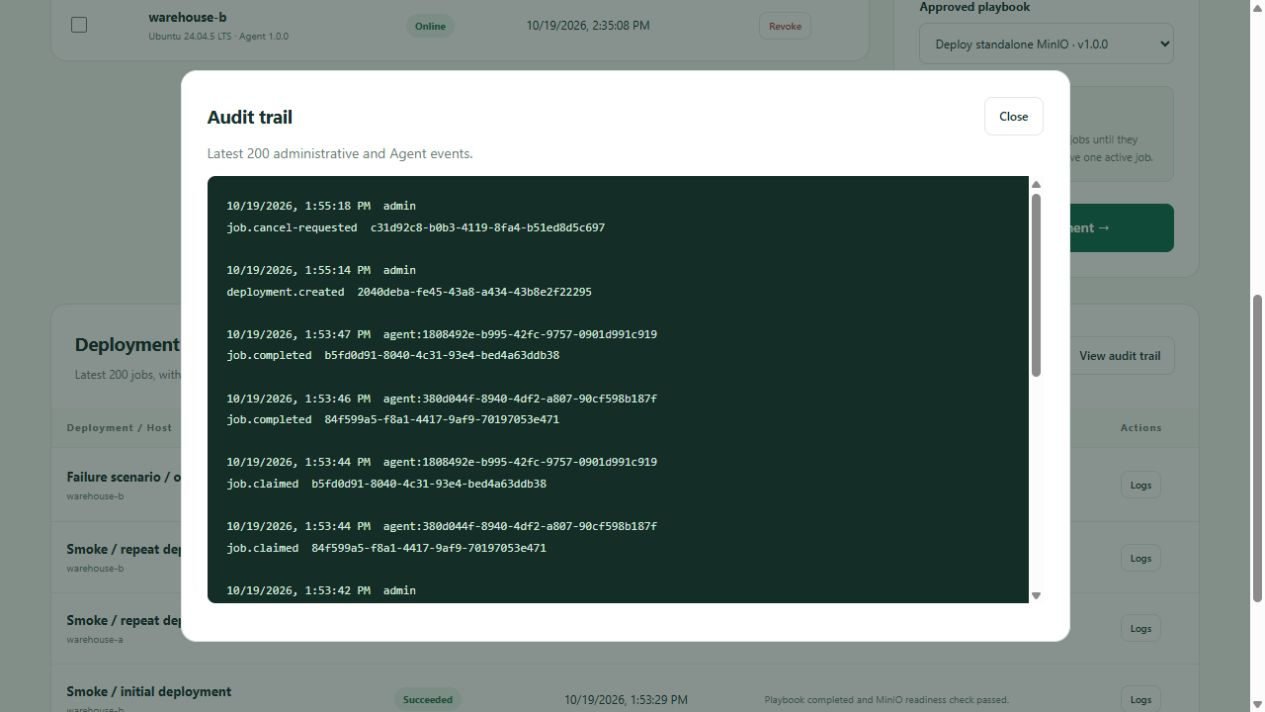
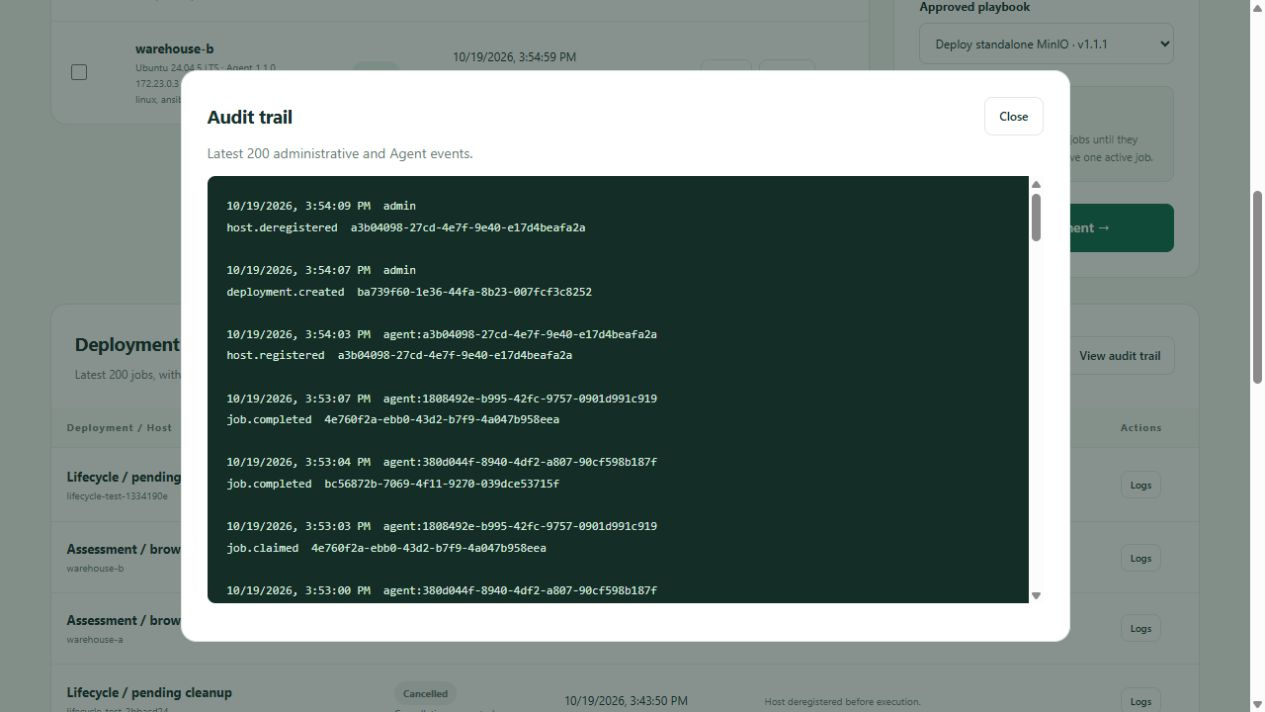
docs: refresh viewer guides and screenshots
Update concise setup guides, validation results, and interface previews.

diff --git a/README.md b/README.md
@@ -1,18 +1,18 @@
 # Dep Pilot
 
-A .NET deployment system that manages hosts and deploys standalone MinIO instances through Ansible. View host status, deployment results, logs, and audit history from one dashboard.
+A .NET deployment system that manages hosts and deploys standalone MinIO instances through Ansible. View host resources, deployment results, logs, and audit history from one dashboard.
 
 ## How it works
 
-1. Agents register with the Master and send heartbeats.
+1. Agents register with IP/capabilities and send heartbeats with CPU, memory, and disk usage.
 2. An administrator selects hosts and starts a deployment.
-3. Each Agent runs the approved playbook locally and reports its result.
+3. Each Agent runs the approved playbook locally, reports its result, and restores the previous MinIO configuration if installation fails.
 
-**Stack:** ASP.NET Core 10, .NET Worker Service, Razor Pages, SQLite, Ansible, and Docker Compose. ASP.NET Core 10 satisfies the assessment's 8+ requirement.
+**Stack:** ASP.NET Core 10, .NET Worker Service, Razor Pages, SQLite, Ansible, and Docker Compose.
 
 ## Preview
 
-![Dep Pilot dashboard](docs/screenshots/dashboard.jpg)
+![Dep Pilot host resources and deployment controls](docs/screenshots/host-resources.jpg)
 
 [View deployment logs and audit screenshots](docs/SCREENSHOTS.md).
 
@@ -26,9 +26,9 @@ From the project folder:
 python scripts/start_demo.py
 ```
 
-The first build can take several minutes. It creates local credentials and starts a Master with two simulated Linux hosts.
+The first build can take several minutes. It creates local credentials, an HTTPS certificate, and two simulated Linux hosts. For browser access, trust your generated `secrets/master.crt` in your local user certificate store; Agents and test scripts already trust this certificate. Never share its private key.
 
-1. Open **http://localhost:8080**.
+1. Open **https://localhost:8080**.
 2. Sign in as **admin** using `secrets/admin-password.txt`.
 3. Wait for both hosts to appear online.
 4. Select the hosts, name the deployment, and run the MinIO playbook.
@@ -61,12 +61,12 @@ See [validation](docs/VALIDATION.md) for Docker tests and full demo checks.
 |---|---|
 | [Architecture](docs/ARCHITECTURE.md) | Components and system flow |
 | [API](docs/API.md) | Endpoints and authentication |
+| [Agent installation](docs/INSTALLATION.md) | Self-contained Linux/Windows service setup |
+| [Deployment packages](docs/PACKAGES.md) | Approved playbooks and application templates |
 | [Configuration](docs/CONFIGURATION.md) | Ports, credentials, and settings |
 | [Operations](docs/OPERATIONS.md) | Commands and troubleshooting |
 | [Security](docs/SECURITY.md) | Controls and limitations |
 | [Validation](docs/VALIDATION.md) | Test results and commands |
 | [TODO](docs/TODO.md) | Ideas for industrial use |
-
-This is a local reference demo with one Master and an approved MinIO playbook. Production improvements are listed in TODO. The Docker mock uses privileged engine sidecars; review the security notes before changing network exposure.
 
 Original code is rights reserved; see [LICENSE-NOTICE.md](LICENSE-NOTICE.md). Third-party licenses are listed in [THIRD_PARTY_NOTICES.md](THIRD_PARTY_NOTICES.md).

diff --git a/docs/INSTALLATION.md b/docs/INSTALLATION.md
@@ -1,0 +1,51 @@
+# Agent service installation
+
+The Docker demo is the quickest evaluation path. Native Agents use the same APIs and credentials.
+
+## Publish self-contained binaries
+
+With the .NET 10 SDK on the build machine:
+
+```sh
+python scripts/publish_agents.py
+```
+
+Output: `artifacts/linux-x64/` and `artifacts/win-x64/`. Targets need the OS native libraries and execution tools, but no installed .NET runtime.
+
+## Linux service
+
+1. Install Docker, Python, and a Python venv at `/opt/dep-pilot/ansible`. Install `ansible-core==2.19.3` and `requests==2.32.5` in that venv.
+2. Install `playbooks/requirements.yml` with `ansible-galaxy collection install -r playbooks/requirements.yml -p /opt/dep-pilot/collections` using the venv's executable.
+3. Copy the Linux publish output to `/opt/dep-pilot`. Create a dedicated `dep-pilot` service account and `/var/lib/dep-pilot` owned by that account, mode `0700`.
+4. Copy `deploy/agent.env.example` to `/etc/dep-pilot/agent.env`; set the Master URL and protected secret/certificate paths. Grant the service account read access to those files and authorized access to Docker.
+5. Build/load `dep-pilot/minio:2025-10-15` on the target engine. See `docker/Minio.Dockerfile`.
+6. Copy `deploy/dep-pilot-agent.service` to `/etc/systemd/system/`, then run:
+
+```sh
+sudo systemctl daemon-reload
+sudo systemctl enable --now dep-pilot-agent
+sudo systemctl status dep-pilot-agent
+```
+
+## Windows service
+
+1. Prepare an account with a WSL Ubuntu distro, Docker access, and Ansible/Requests/the Docker collection installed inside that distro. Ansible runs locally through WSL.
+2. Copy the Windows publish output to a permanent install directory. Copy `deploy/windows-appsettings.json.example` there as `appsettings.json` and edit its paths and Master URL.
+3. Give that account access to the state directory, secret files, certificate, and its WSL distro. Restrict state and secret-file ACLs to the service account and trusted administrators.
+4. Preload the MinIO image in the Docker engine reachable from WSL. In elevated PowerShell:
+
+```powershell
+$account = Get-Credential
+.\deploy\install-windows-service.ps1 -InstallDirectory 'C:\DepPilot\Agent' -ServiceCredential $account
+Start-Service DepPilotAgent
+```
+
+Use the account that owns the configured WSL distro. The supplied service template does not install a distro or configure service logon rights automatically.
+
+## Logs and retirement
+
+Agent operational logs are stored as `agent.log` in its state directory, with one rotated file. Deployment output is available in the dashboard.
+
+Stop a native service before using the [retirement helper](OPERATIONS.md#deregister-a-host). Application data and deployment history are preserved.
+
+See [validation](VALIDATION.md) for what has been tested; binary smoke tests do not replace installation testing under systemd or Windows Service Control Manager.

diff --git a/docs/API.md b/docs/API.md
@@ -1,6 +1,6 @@
 # HTTP API reference
 
-Base URLs: `http://localhost:8080` for the local demo; an HTTPS origin for a real deployment. JSON properties use camelCase; job statuses are strings. Timestamps are UTC Unix milliseconds. API errors use HTTP status codes and, for domain validation, Problem Details with a `detail` field.
+Base URLs: `https://localhost:8080` for the local demo; an HTTPS origin for a real deployment. JSON properties use camelCase; job statuses are strings. Timestamps are UTC Unix milliseconds. API errors use HTTP status codes and, for domain validation, Problem Details with a `detail` field.
 
 ## Authentication
 
@@ -21,7 +21,9 @@ Base URLs: `http://localhost:8080` for the local demo; an HTTPS origin for a rea
   "installationId": "b9aeb700-f4ca-463f-8f65-ec970322df67",
   "hostname": "warehouse-a",
   "operatingSystem": "Linux",
-  "agentVersion": "1.0.0",
+  "agentVersion": "1.1.0",
+  "ipAddress": "10.0.0.10",
+  "capabilities": ["linux", "ansible", "docker"],
   "token": "<64 hexadecimal characters generated and stored by the Agent>"
 }
 ```
@@ -30,7 +32,8 @@ Base URLs: `http://localhost:8080` for the local demo; an HTTPS origin for a rea
 
 | Method | Path | Request / response |
 |---|---|---|
-| POST | `/api/agent/heartbeat` | `{ "agentVersion": "1.0.0" }`; 204 |
+| POST | `/api/agent/heartbeat` | `agentVersion`, optional `metrics`, `ipAddress`, `capabilities`; 204 |
+| POST | `/api/agent/deregister` | Retire this Agent; 204, safe to retry |
 | POST | `/api/agent/jobs/claim` | `{}`; 204 if no work, otherwise assignment JSON |
 | GET | `/api/agent/jobs/{jobId}/playbook` | UTF-8 YAML for an owned running job |
 | POST | `/api/agent/jobs/{jobId}/lease` | `{ "attemptId": "..." }`; `{ "cancelRequested": false }` |
@@ -63,6 +66,8 @@ Completion:
 ```
 
 
+Metrics contain `cpuPercent` (null until the second sample), `memoryUsedBytes`, `memoryTotalBytes`, `diskFreeBytes`, `diskTotalBytes`, and UTC `sampledAt`. Dashboard hosts include these values plus IP and capabilities. Resource values describe the Agent's OS view; they are not continuous workload health checks.
+
 ## Admin endpoints
 
 | Method | Path | Purpose |
@@ -72,6 +77,7 @@ Completion:
 | POST | `/api/admin/deployments` | Create one job per selected host |
 | POST | `/api/admin/jobs/{jobId}/cancel` | Cancel pending work or request running cancellation |
 | POST | `/api/admin/hosts/{hostId}/revoke` | Revoke credential and terminate active job records |
+| POST | `/api/admin/hosts/{hostId}/deregister` | Retire host, cancel pending work, retain history; 409 while running |
 | GET | `/api/admin/jobs/{jobId}/logs` | Ordered persisted output |
 | GET | `/api/admin/audit` | Latest 200 audit events |
 

diff --git a/docs/SECURITY.md b/docs/SECURITY.md
@@ -16,7 +16,7 @@ The reference platform is intended for local evaluation. Before operational depl
 | One Agent altering another's job | Host identity comes from authentication; ownership enforced on every job resource |
 | Installation takeover | Enrollment replay requires the existing per-installation token; conflicting credentials rejected |
 | Database credential disclosure | Per-Agent random tokens are stored as SHA-256 hashes |
-| Transport interception | HTTPS required by default; normal CA validation; redirects disabled on Agent HTTP client |
+| Transport interception | HTTPS in Compose and native mode; certificate and hostname validation; redirects disabled on Agent HTTP client |
 | Arbitrary shell injection | Fixed executable plus `ProcessStartInfo.ArgumentList`, no shell |
 | Changed playbook in transit | SHA-256 check before writing or starting an execution |
 | Unbounded process execution | Job timeout, renewable lease, cancellation, process-tree termination |
@@ -26,3 +26,11 @@ The reference platform is intended for local evaluation. Before operational depl
 | Untraceable changes | Persisted actors, job transitions, playbook versions, and audit events |
 | Untrusted browser rendering | Text-only DOM insertion, same-origin CSP, frame denial, nosniff, no-store |
 | Basic login/enrollment abuse | IP-partitioned request rate limits |
+
+## Demo and recovery boundaries
+
+- The demo generates a private certificate; only its public certificate is supplied to Agents. Browser trust is a local setup step. The Agent uses a random opaque bearer token, not a JWT; admin access uses a cookie and CSRF protection.
+- Privileged Docker-in-Docker sidecars simulate target hosts. Docker access is a host-administration permission; keep the demo on a trusted machine with loopback-bound published ports.
+- MinIO rollback restores managed container configuration and preserves volumes; it does not reverse application writes, storage-format changes, cancellation, or host crashes.
+- Deregistration revokes credentials, removes live inventory/metrics, and cancels pending work. Identity tombstones and job/audit history remain for traceability.
+- Review workload maintenance and third-party licensing before production use. SSO, credential rotation, encrypted key storage, and production recovery drills remain future work.

diff --git a/docs/OPERATIONS.md b/docs/OPERATIONS.md
@@ -8,7 +8,7 @@ Run commands from the project folder with Docker running in Linux-container mode
 python scripts/start_demo.py
 ```
 
-1. Open `http://localhost:8080` (or your configured port).
+1. Open `https://localhost:8080` (or your configured port).
 2. Sign in as `admin` with `secrets/admin-password.txt`.
 3. Wait for both Agents to appear online.
 4. Select hosts, name the deployment, and run the MinIO playbook.
@@ -37,11 +37,23 @@ MinIO runs inside each simulated host's Docker engine. If an engine volume is re
 | Deployment fails | Job logs, target Docker engine, image, ports, and storage |
 | Access returns 401 | Incorrect or revoked credentials |
 
+## Deregister a host
+
+Use **Remove** in the dashboard to retire a host and cancel pending work. Running jobs must finish or be cancelled first. Stop its Agent service afterwards. Deployment history and MinIO data remain available.
+
+For native Agents, stop the service and run the local retirement helper instead:
+
+```sh
+python scripts/deregister_agent.py --master-url https://controller.example.com:7443 --state-directory /var/lib/dep-pilot --certificate /etc/dep-pilot/master.crt
+```
+
+It revokes access and removes the local identity credential. A retirement marker prevents accidental re-enrollment. Omit `--certificate` for a normally trusted server certificate.
+
 ## Recovery and data
 
-- Cancellation stops execution but does not undo changes already applied. Inspect the target before retrying a failed or timed-out job.
+- Failed MinIO installation restores the previous managed container configuration, or removes a new failed container. Data is retained. Cancellation, timeout, and machine failure may interrupt rollback; inspect the target before retrying.
 - An online Agent does not guarantee the deployed application is healthy.
 - Back up the Master database and cookie keys together while the Master is stopped. Protect Agent identities and back up MinIO data separately.
-- Removing Docker volumes deletes stored data and identities. Log retention and automatic rollback are not implemented.
+- Removing Docker volumes deletes stored data and identities. Automatic log retention is not implemented.
 
 See [configuration](CONFIGURATION.md) for ports and settings, or [validation](VALIDATION.md) to test the demo.

diff --git a/docs/VALIDATION.md b/docs/VALIDATION.md
@@ -6,13 +6,20 @@ Local verification: **19 October 2026**, using Windows 11, .NET SDK 10.0.402, an
 
 | Check | Result |
 |---|---|
-| Release tests on Windows and Linux | 20 passed on each platform |
-| Two-Agent registration and MinIO deployment | Passed |
+| Release tests on Windows and Linux | 29 passed on each platform |
+| Two-Agent registration, IP/capabilities, and resource metrics | Passed |
+| MinIO deployment on both targets | Passed |
 | MinIO readiness and S3 upload/download | Passed on both targets |
 | Repeat deployment | Passed with `changed=0` |
 | Master and MinIO restart persistence | Passed |
 | Offline detection, queued cancellation, and Agent recovery | Passed |
 | Authentication, job ownership, and known-secret redaction | Passed |
+| HTTPS trust and hostname rejection | Passed |
+| First-install and update rollback, preserving data | Passed |
+| Deregistration, pending cleanup, and local credential retirement | Passed |
+| Configurable bind storage and rollback | Passed |
+| Browser login, metadata/resources, two-host deployment, logs, and audit | Passed; no browser console warnings/errors |
+| Self-contained Windows/Linux binary enrollment and metrics | Passed |
 | Image builds, Compose, and script syntax checks | Passed |
 | NuGet vulnerability audit | No known vulnerabilities reported at verification time |
 
@@ -34,8 +41,19 @@ Test the running demo:
 python scripts/start_demo.py
 python scripts/smoke_test.py
 python scripts/failure_scenarios.py
+python scripts/rollback_test.py
+python scripts/security_lifecycle_test.py
 ```
 
 Use a disposable demo: these checks create deployments, restart services, and temporarily stop Agent B.
+
+To build and check self-contained binaries with the .NET 10 SDK:
+
+```sh
+python scripts/publish_agents.py
+python scripts/native_agent_test.py
+```
+
+Windows Service Control Manager/systemd installation and Windows WSL deployment execution have not been end-to-end validated on this machine. Native binary tests cover HTTPS enrollment, resource reporting, and Windows local logging.
 
 These are local results. Check GitHub Actions separately for CI results. Production load, penetration, and disaster-recovery testing remain future work.

diff --git a/docs/CONFIGURATION.md b/docs/CONFIGURATION.md
@@ -32,10 +32,20 @@ Use environment variables with `__` between sections and names.
 | `Agent__PollSeconds` | Check for jobs every N seconds | `5` |
 | `Agent__HeartbeatSeconds` | Send a heartbeat every N seconds | `15` |
 
-Compose supplies its own Master address and enables HTTP for the local demo. Use HTTPS outside that demo. Full settings are listed in [MasterOptions](../src/DepPilot.Master/Services/MasterOptions.cs), [AgentOptions](../src/DepPilot.Agent/AgentOptions.cs), and [compose.yaml](../compose.yaml).
+Compose uses HTTPS and a generated local certificate. Agents trust the public certificate through `Agent__ServerCertificateFile`; normal installations can use the OS certificate trust store. Full settings are listed in [MasterOptions](../src/DepPilot.Master/Services/MasterOptions.cs), [AgentOptions](../src/DepPilot.Agent/AgentOptions.cs), and [compose.yaml](../compose.yaml).
+
+Additional Agent settings:
+
+| Variable | Purpose |
+|---|---|
+| `Agent__MinioStoragePath` | Optional absolute directory on the target Docker host; empty uses a named volume |
+| `Agent__ServerCertificateFile` | Public certificate for a private/demo CA |
+| `Agent__WslDistribution` | Windows execution distro; default `Ubuntu` |
+
+For a bind-mounted MinIO directory, create it on the target first and grant UID/GID `10001` write access. Ports and credentials remain configurable through Agent settings and secret files.
 
 ## Data and playbooks
 
 Docker volumes preserve the Master database, Agent identities, and MinIO data. Keep each Agent's identity unique.
 
-The Master includes one approved MinIO playbook. Changing its content requires a new version in the Master seed configuration; playbook upload/edit is not available in the UI.
+Approved applications are defined in `packages/*.json`. Changing a playbook requires a new package version. See [packages](PACKAGES.md); upload/edit is not available in the UI.

diff --git a/docs/PACKAGES.md b/docs/PACKAGES.md
@@ -1,0 +1,26 @@
+# Deployment packages
+
+An approved package consists of a JSON manifest in `packages/` and a local YAML playbook in `playbooks/`.
+
+The MinIO example includes:
+
+- `packages/minio.json`: name, immutable version, playbook filename, and prerequisites.
+- `playbooks/minio.yml`: configuration checks, Docker/image checks, installation, readiness, and rollback.
+- `playbooks/requirements.yml`: required Ansible collections.
+
+## Add an application
+
+1. Copy `packages/application.json.example` to a new `.json` file.
+2. Copy `playbooks/application.yml.example` to a `.yml` file and implement prerequisites, installation, readiness, and safe rollback. The template intentionally refuses execution until completed.
+3. Set the manifest's playbook filename and version. Install its required tools in the Agent runtime.
+4. Review the changes and rebuild the Master. It imports the approved package and verifies that existing version content has not changed.
+
+The latest version is available for new deployments; old versions remain in deployment history. There is no arbitrary playbook upload endpoint.
+
+The runner supplies MinIO variables for the sample workload. Other playbooks must define their own non-secret defaults or use protected Agent-side configuration; arbitrary per-deployment parameter editing is not implemented.
+
+## MinIO recovery
+
+On a normal Ansible installation/readiness failure, the playbook restores the previous managed container image, environment, ports, mounts, and restart policy. A failed first installation removes its container. Persistent storage is retained, and the job remains **Failed**.
+
+This restores container configuration, not object contents or storage formats. Cancellation, process termination, or host failure can interrupt recovery; inspect the target before retrying.

diff --git a/docs/TODO.md b/docs/TODO.md
@@ -5,10 +5,9 @@ These features are planned ideas and are not yet implemented.
 ## High priority
 
 - [ ] Add company login (SSO), multi-factor authentication, and user roles.
-- [ ] Use HTTPS for all Master and Agent connections.
 - [ ] Add secure Agent registration and credential rotation.
 - [ ] Store passwords and tokens in a secret manager.
-- [ ] Provide a production installation guide for real Linux hosts.
+- [ ] Validate packaged service installation across the supported target environments.
 - [ ] Support safe database upgrades, backups, and recovery.
 - [ ] Add monitoring and alerts for system failures.
 - [ ] Set retention limits for logs and deployment history.
@@ -22,7 +21,7 @@ These features are planned ideas and are not yet implemented.
 - [ ] Review and approve playbook versions before use.
 - [ ] Deploy to a small group first, then continue if health checks pass.
 - [ ] Monitor application health after deployment.
-- [ ] Add recovery or rollback steps that protect application data.
+- [ ] Extend rollback to more workloads and test storage/schema compatibility.
 - [ ] Add PostgreSQL and multiple Masters when scale or availability requires them.
 - [ ] Improve search, filtering, and pagination for larger host fleets.
 - [ ] Export audit records to a protected external system.
@@ -32,7 +31,6 @@ These features are planned ideas and are not yet implemented.
 ## Optional improvements
 
 - [ ] Integrate deployments with CI/CD pipelines.
-- [ ] Add reusable deployment templates.
 - [ ] Detect unexpected changes on target hosts.
-- [ ] Support Windows hosts if required.
+- [ ] Validate Windows Service deployment execution using the service account's WSL environment.
 - [ ] Add deployment schedules and reports.

diff --git a/docs/ARCHITECTURE.md b/docs/ARCHITECTURE.md
@@ -90,3 +90,12 @@ stateDiagram-v2
 | Credential revoked | Further Agent API access is denied; running work stops when renewal fails |
 | Master restarts | Database jobs and persisted cookie keys survive |
 | MinIO fails readiness | Playbook exits unsuccessfully and job is marked failed |
+
+## Extensions
+
+- Agents report IP, capabilities, and timestamped CPU/memory/disk samples. Dashboard refresh remains every five seconds; telemetry can be older than that according to the heartbeat interval.
+- Reviewed JSON package manifests seed immutable playbook versions. Only the latest version per application is listed for new deployments; previous versions remain linked to historical jobs.
+- MinIO checks Docker/image prerequisites before changes. Ansible rescue restores a previous managed container configuration or removes a failed first installation, retaining storage. Recovered installations still report the deployment as failed.
+- Deregistration rejects running work, cancels queued work, revokes credentials, clears telemetry, and hides the host. Tombstones prevent identity reuse; history is retained.
+- The SQLite startup upgrade adds missing telemetry/retirement columns without deleting existing identities. This is a small additive compatibility upgrade, not a general migration framework.
+- Linux uses native Ansible. Windows runs the self-contained Worker as a Windows Service and invokes Ansible through its configured WSL distro.

diff --git a/docs/SCREENSHOTS.md b/docs/SCREENSHOTS.md
@@ -1,10 +1,14 @@
 # Dep Pilot screenshots
 
-Screenshots captured from a local, two-Agent Docker demo.
+Screenshots captured from the local HTTPS demo with two Agents. Resource values describe each Agent environment.
 
 ## Dashboard
 
 ![Dep Pilot dashboard with two registered Agents and deployment history](screenshots/dashboard.jpg)
+
+## Host resources
+
+![Host metadata, CPU, memory, disk, and retirement controls](screenshots/host-resources.jpg)
 
 ## Deployment output
 
